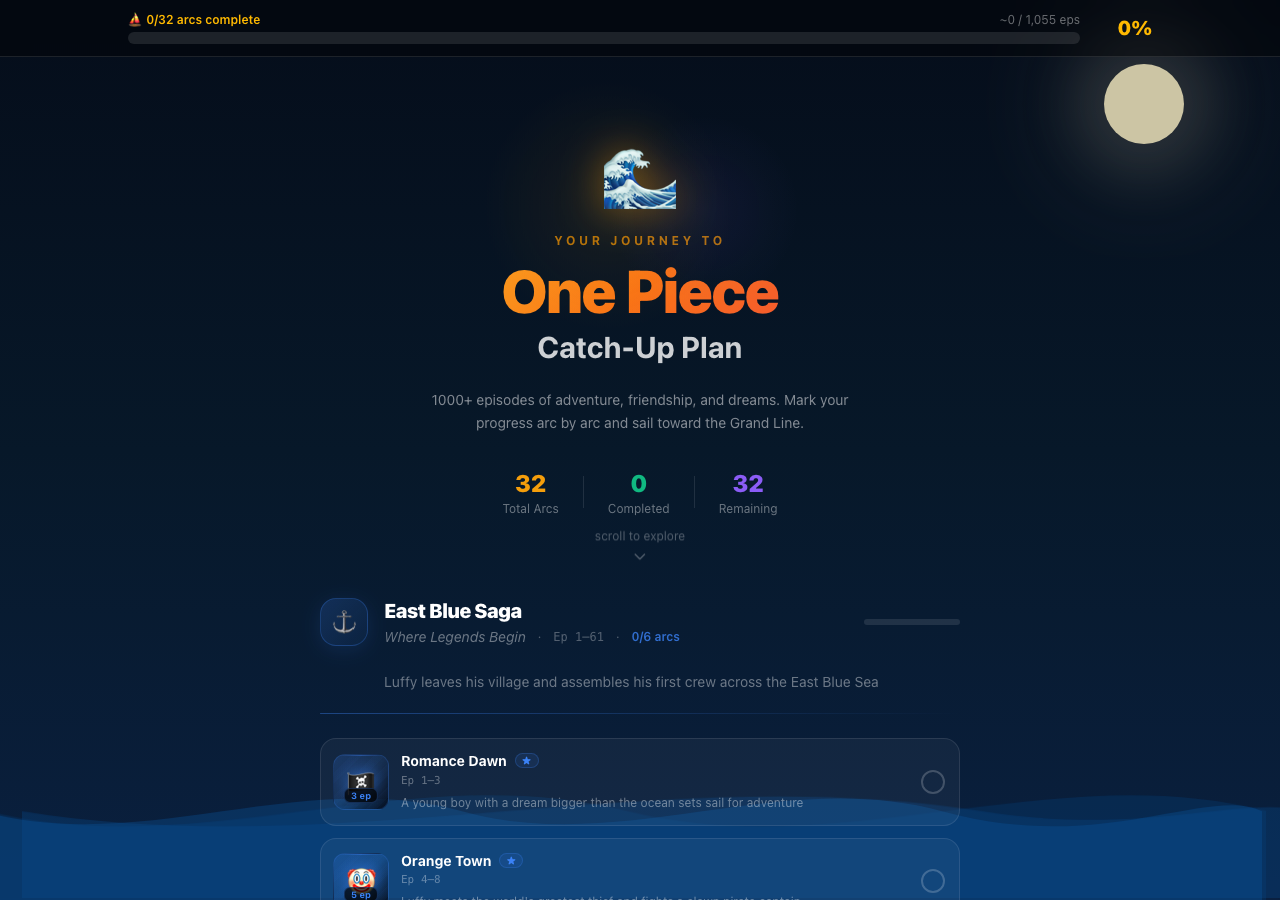
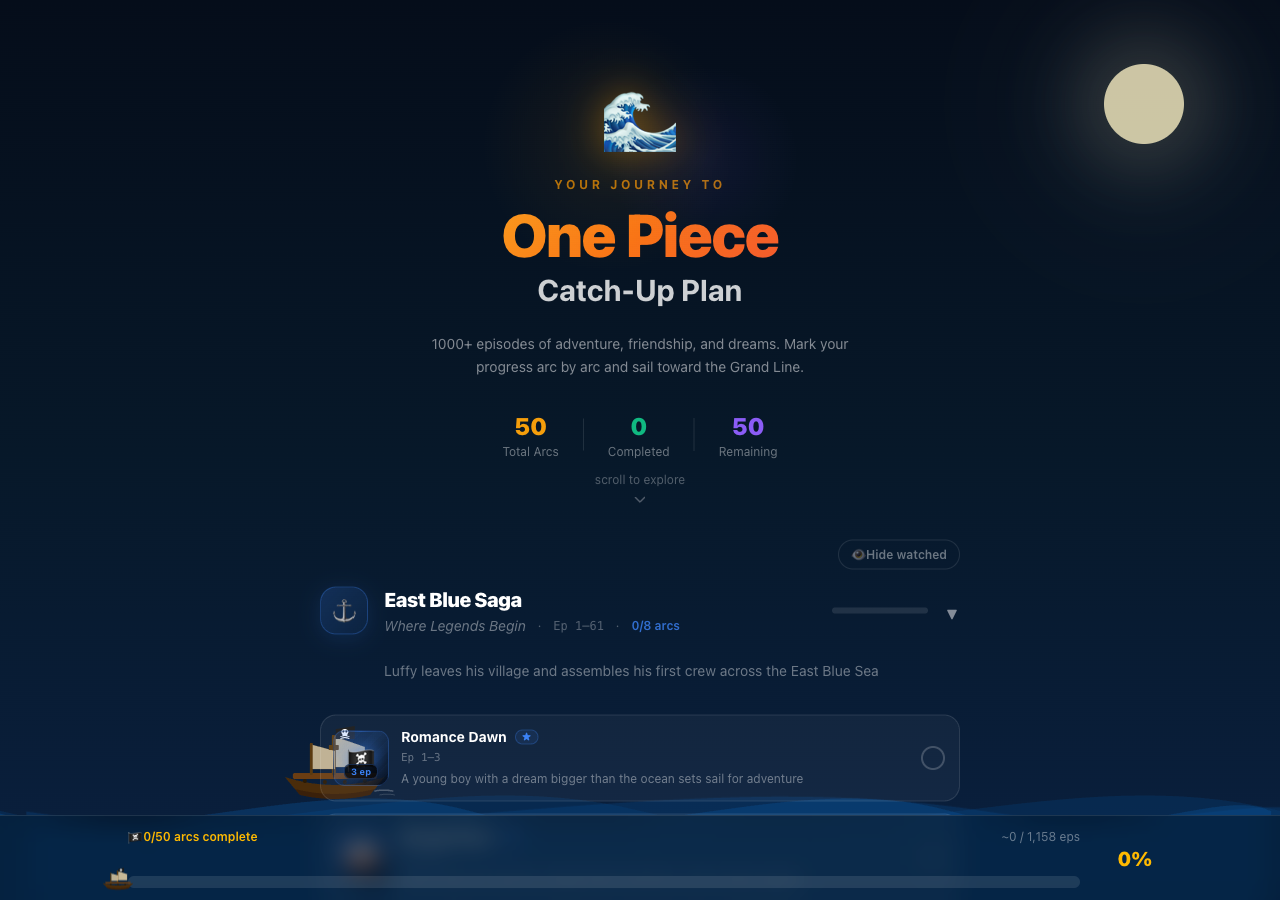
Update README and screenshot to reflect latest features

diff --git a/README.md b/README.md
@@ -9,9 +9,13 @@ A visual guide for tracking your One Piece progress — browse every saga and ar
 ## Features
 
 - Browse all sagas and arcs with episode ranges
-- Track watched episodes at the arc level
+- Dedicated saga pages with arc lists and saga-level progress
+- Track watched episodes at the arc level or episode-by-episode
 - View key landmarks and must-watch moments per arc
 - Arc detail page with villain, highlights, and episode-by-episode breakdown
+- Animated pirate ship riding the progress bar across all pages
+- Hide/show watched arcs toggle with smooth animations
+- Collapsible saga sections
 
 ## Tech Stack
 
